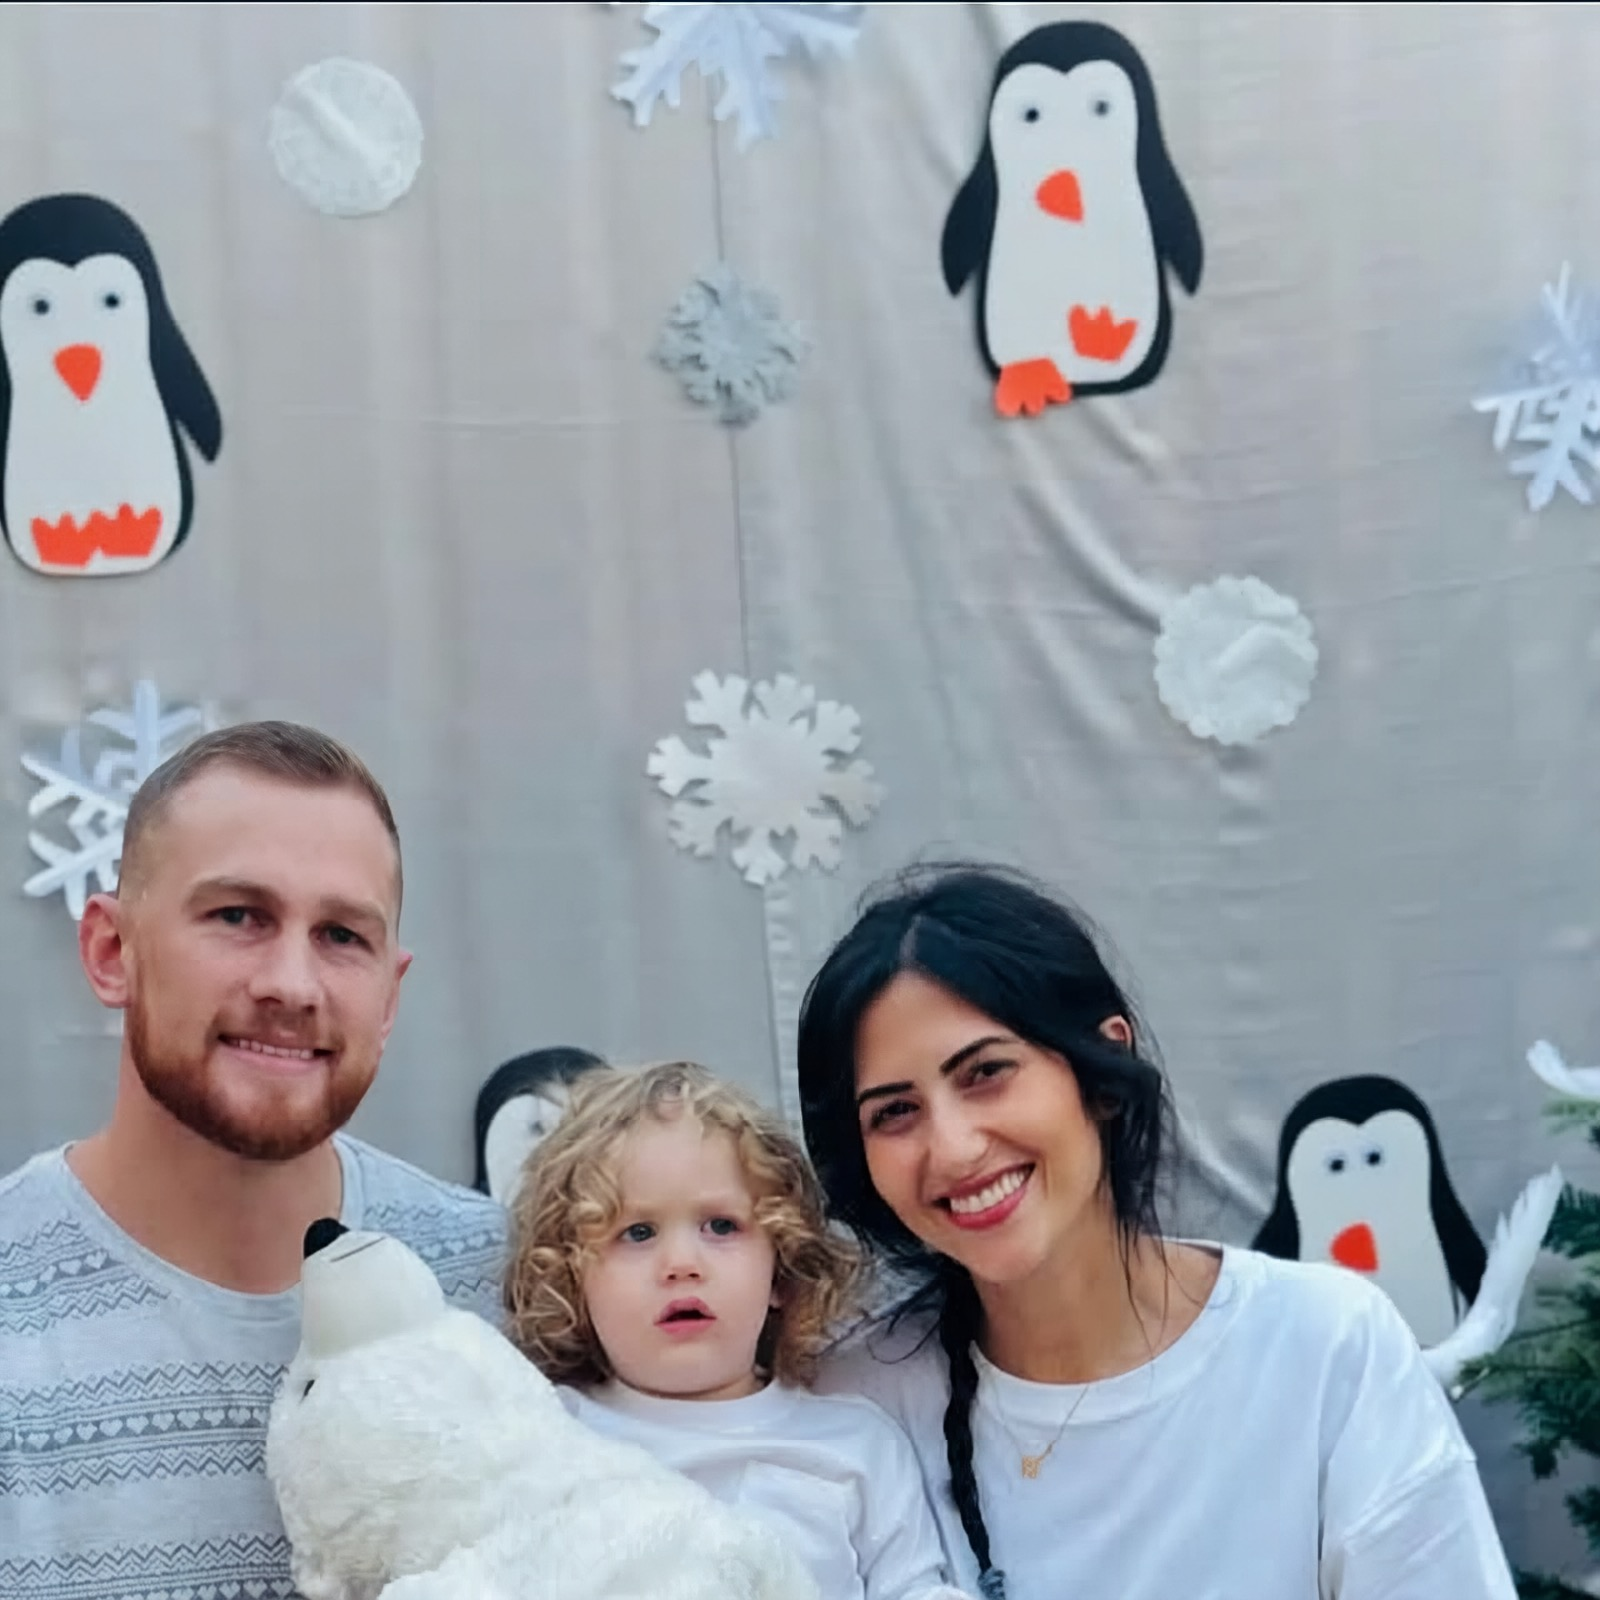
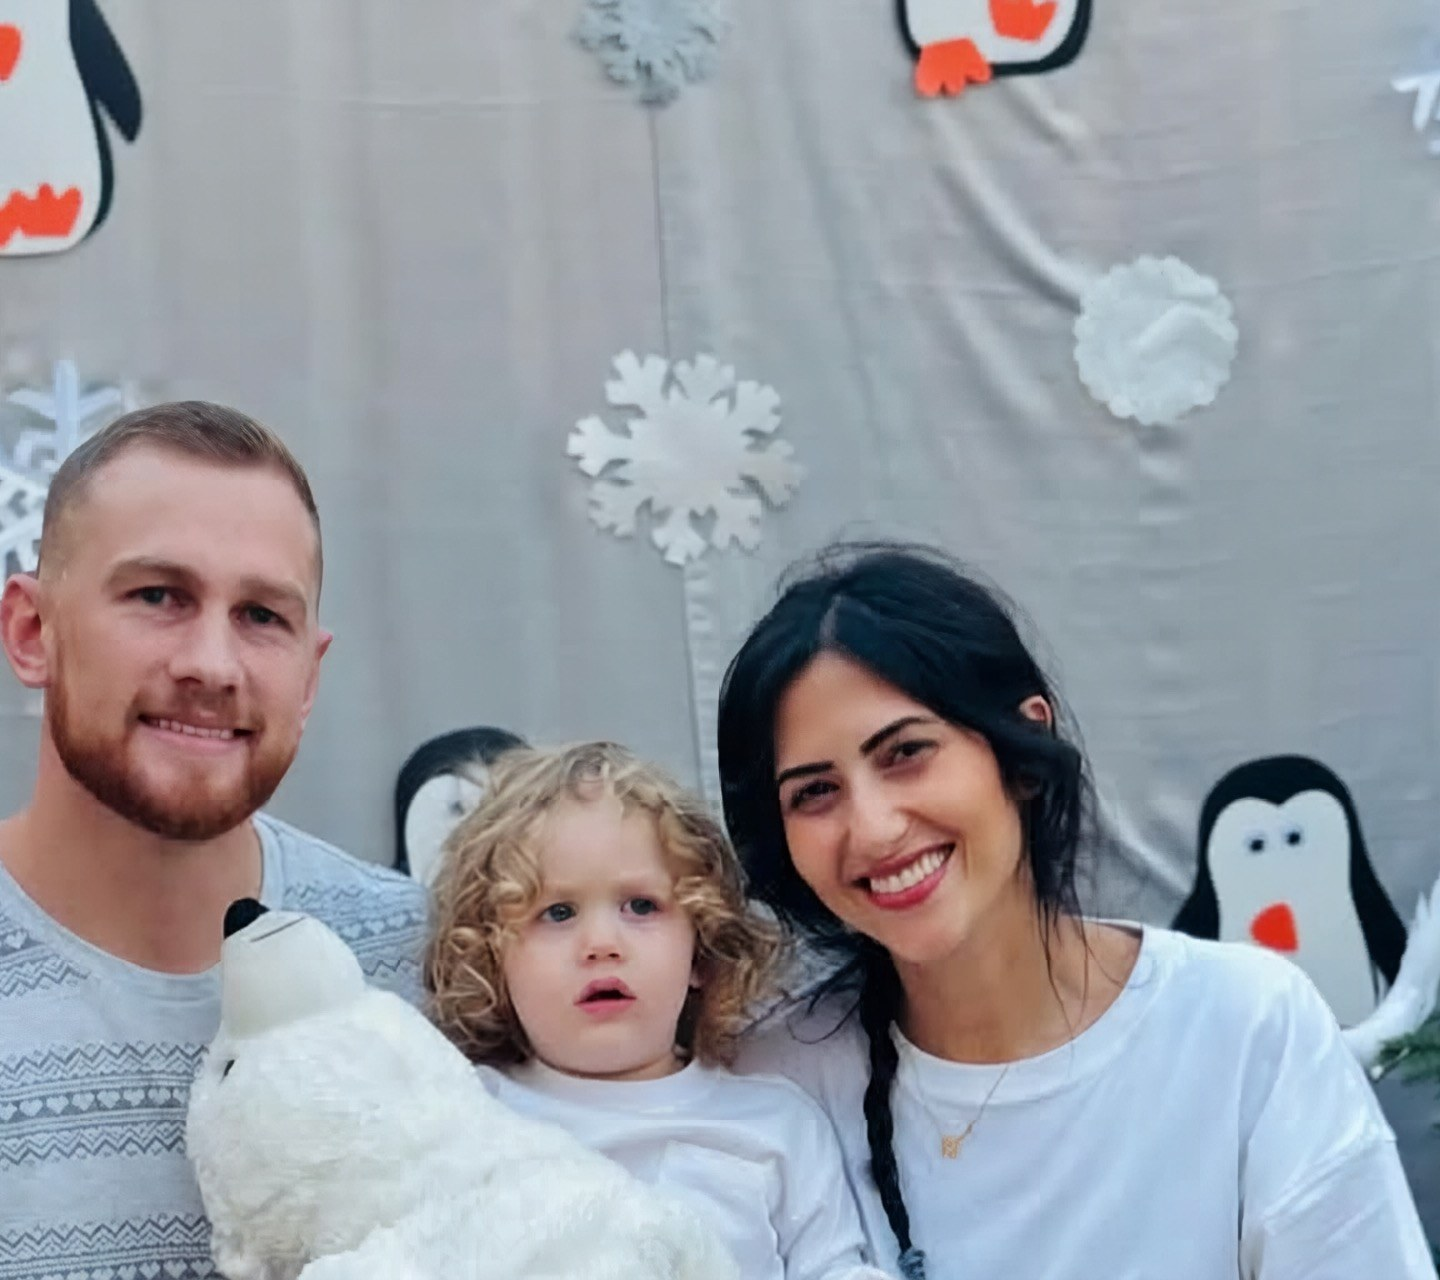
Hero: realistic neutral beachfront setup (Nano Banana Pro); recenter founder photo
- Swap hero from the AI-garden Color Pop to a photorealistic neutral Neutral Nest
  beachfront setup enhanced via Nano Banana Pro (Higgsfield).
- Re-crop founder family photo to centre on the family (drop empty top space).

diff --git a/components/Hero.tsx b/components/Hero.tsx
@@ -21,8 +21,8 @@ export function Hero() {
       {/* Full-bleed enhanced setup as the hero background */}
       <motion.div style={{ y: heroY, scale: heroScale }} className="absolute inset-0">
         <Image
-          src="/photos/setups/setup-01-enhanced.jpg"
-          alt="A KiddoKlub pastel soft-play setup in a sunny Doha garden"
+          src="/photos/setups/hero-neutral.jpg"
+          alt="A KiddoKlub neutral soft-play setup on a Doha beachfront"
           fill
           priority
           fetchPriority="high"
